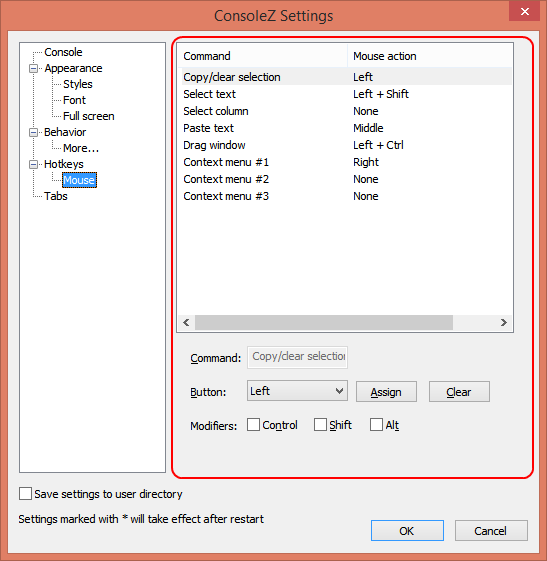
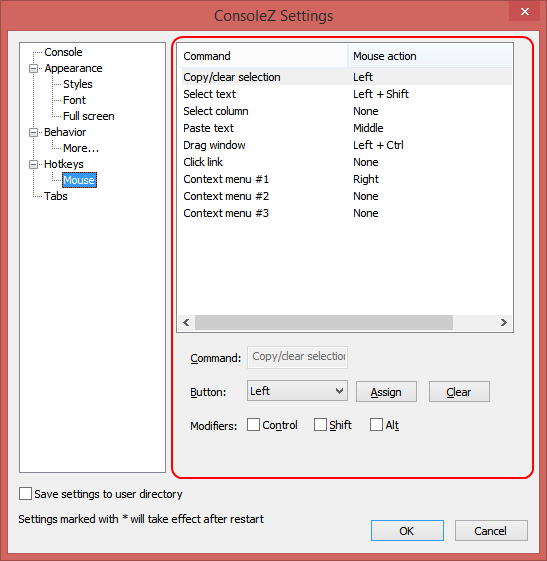
#123 Add "Click link" mouse command

diff --git a/ConsoleHook/ConsoleHandler.cpp b/ConsoleHook/ConsoleHandler.cpp
@@ -1133,6 +1133,89 @@ right:
 
 //////////////////////////////////////////////////////////////////////////////
 
+void ConsoleHandler::ClickLink(HANDLE hStdOut)
+{
+	SHORT                        sBufferColumns  = (m_consoleParams->dwBufferColumns > 0) ? static_cast<SHORT>(m_consoleParams->dwBufferColumns) : static_cast<SHORT>(m_consoleParams->dwColumns);
+	SHORT                        sBufferRows     = (m_consoleParams->dwBufferRows    > 0) ? static_cast<SHORT>(m_consoleParams->dwBufferRows)    : static_cast<SHORT>(m_consoleParams->dwRows);
+	COORD                        coordFrom       = {0, 0};
+	COORD                        coordBufferSize = {sBufferColumns, 1};
+	std::unique_ptr<CHAR_INFO[]> pScreenBuffer(new CHAR_INFO[sBufferColumns]);
+
+	std::wstring strLink;
+
+	for (SHORT y = m_multipleInfo->coordCurrent.Y; y >= 0; --y)
+	{
+		SMALL_RECT srBuffer;
+
+		srBuffer.Left   = 0;
+		srBuffer.Top    = y;
+		srBuffer.Right  = (y == m_multipleInfo->coordCurrent.Y)? m_multipleInfo->coordCurrent.X : (sBufferColumns - 1);
+		srBuffer.Bottom = y;
+
+		::ReadConsoleOutput(
+			hStdOut,
+			pScreenBuffer.get(),
+			coordBufferSize,
+			coordFrom,
+			&srBuffer);
+
+		for (SHORT x = srBuffer.Right; x >= srBuffer.Left; --x)
+		{
+			wchar_t c = pScreenBuffer[x - srBuffer.Left].Char.UnicodeChar;
+			for (size_t d = 0; m_multipleInfo->u.select_word.szLeftDelimiters[d]; ++d)
+			{
+				if( c == m_multipleInfo->u.select_word.szLeftDelimiters[d] )
+				{
+					goto right;
+				}
+			}
+			strLink.insert(0, &c, 1);
+		}
+	}
+
+right:
+
+	for (SHORT y = m_multipleInfo->coordCurrent.Y; y < sBufferRows; ++y)
+	{
+		SMALL_RECT srBuffer;
+
+		srBuffer.Left   = (y == m_multipleInfo->coordCurrent.Y)? (m_multipleInfo->coordCurrent.X + 1) : 0;
+		srBuffer.Top    = y;
+		srBuffer.Right  = sBufferColumns - 1;
+		srBuffer.Bottom = y;
+
+		::ReadConsoleOutput(
+			hStdOut,
+			pScreenBuffer.get(),
+			coordBufferSize,
+			coordFrom,
+			&srBuffer);
+
+		for (SHORT x = srBuffer.Left; x <= srBuffer.Right; ++x)
+		{
+			wchar_t c = pScreenBuffer[x - srBuffer.Left].Char.UnicodeChar;
+			for (size_t d = 0; m_multipleInfo->u.select_word.szLeftDelimiters[d]; ++d)
+			{
+				if( c == m_multipleInfo->u.select_word.szLeftDelimiters[d] )
+				{
+					goto link;
+				}
+			}
+			strLink += c;
+		}
+	}
+
+link:
+
+	ShellExecute(NULL, L"open", strLink.c_str(), NULL, NULL, SW_SHOWNORMAL);
+	//MessageBox(NULL, strLink.c_str(), L"link", MB_OK);
+}
+
+//////////////////////////////////////////////////////////////////////////////
+
+
+//////////////////////////////////////////////////////////////////////////////
+
 void ConsoleHandler::SearchText(HANDLE hStdOut)
 {
 	SHORT                        sBufferColumns  = (m_consoleParams->dwBufferColumns > 0) ? static_cast<SHORT>(m_consoleParams->dwBufferColumns) : static_cast<SHORT>(m_consoleParams->dwColumns);
@@ -1578,6 +1661,11 @@ DWORD ConsoleHandler::MonitorThread()
 				else if( m_multipleInfo->fMask & MULTIPLEINFO_SEARCH_TEXT )
 				{
 					SearchText(hStdOut);
+				}
+				// click link
+				if( m_multipleInfo->fMask & MULTIPLEINFO_CLICK_LINK )
+				{
+					ClickLink(hStdOut);
 				}
 
 				::SetEvent(m_multipleInfo.GetRespEvent());

diff --git a/Console/ConsoleHandler.cpp b/Console/ConsoleHandler.cpp
@@ -766,6 +766,29 @@ bool ConsoleHandler::SelectWord(const COORD& coordCurrent, COORD& coordLeft, COO
 
 //////////////////////////////////////////////////////////////////////////////
 
+bool ConsoleHandler::ClickLink(const COORD& coordCurrent) const
+{
+	m_multipleInfo->fMask = MULTIPLEINFO_CLICK_LINK;
+	m_multipleInfo->coordCurrent = coordCurrent;
+
+	CopyPasteSettings& copyPasteSettings = g_settingsHandler->GetBehaviorSettings().copyPasteSettings;
+	wcscpy_s<MAX_WORD_DELIMITERS>(m_multipleInfo->u.select_word.szLeftDelimiters,  copyPasteSettings.strLeftDelimiters.c_str());
+	wcscpy_s<MAX_WORD_DELIMITERS>(m_multipleInfo->u.select_word.szRightDelimiters, copyPasteSettings.strRightDelimiters.c_str());
+
+	if( ::SetEvent(m_multipleInfo.GetReqEvent()) &&
+	    ::WaitForSingleObject(m_multipleInfo.GetRespEvent(), 2000) == WAIT_OBJECT_0 )
+	{
+		return true;
+	}
+
+	return false;
+}
+
+//////////////////////////////////////////////////////////////////////////////
+
+
+//////////////////////////////////////////////////////////////////////////////
+
 bool ConsoleHandler::SearchText(CString& text, bool bNext, const COORD& coordCurrent, COORD& coordLeft, COORD& coordRight) const
 {
 	m_multipleInfo->fMask = MULTIPLEINFO_SEARCH_TEXT;

diff --git a/Console/SettingsHandler.cpp b/Console/SettingsHandler.cpp
@@ -2023,6 +2023,7 @@ MouseSettings::MouseSettings()
 	commands.push_back(std::shared_ptr<CommandData>(new CommandData(cmdColumnSelect, L"select_column", L"Select column")));
 	commands.push_back(std::shared_ptr<CommandData>(new CommandData(cmdPaste,        L"paste",         L"Paste text")));
 	commands.push_back(std::shared_ptr<CommandData>(new CommandData(cmdDrag,         L"drag",          L"Drag window")));
+	commands.push_back(std::shared_ptr<CommandData>(new CommandData(cmdLink,         L"link",          L"Click link")));
 	commands.push_back(std::shared_ptr<CommandData>(new CommandData(cmdMenu1,        L"menu",          L"Context menu #1")));
 	commands.push_back(std::shared_ptr<CommandData>(new CommandData(cmdMenu2,        L"menu2",         L"Context menu #2")));
 	commands.push_back(std::shared_ptr<CommandData>(new CommandData(cmdMenu3,        L"menu3",         L"Context menu #3")));

diff --git a/Console/ConsoleView.cpp b/Console/ConsoleView.cpp
@@ -736,6 +736,16 @@ LRESULT ConsoleView::OnMouseButton(UINT uMsg, WPARAM wParam, LPARAM lParam, BOOL
 			return 0;
 		}
 
+		// click link
+		it = mouseSettings.commands.get<MouseSettings::commandID>().find(MouseSettings::cmdLink);
+		if ((*it)->action == mouseAction)
+		{
+			MutexLock bufferLock(m_consoleHandler.m_bufferMutex);
+			m_consoleHandler.ClickLink(GetConsoleCoord(point));
+
+			return 0;
+		}
+
 		// menu command
 		for(int i = 0; i < 3; ++i)
 		{

diff --git a/ConsoleHook/ConsoleHandler.h b/ConsoleHook/ConsoleHandler.h
@@ -48,6 +48,7 @@ class ConsoleHandler
 		void CopyConsoleTextLine  (HANDLE hStdOut, std::unique_ptr<ClipboardData> clipboardDataPtr[], size_t clipboardDataCount);
 		void CopyConsoleTextColumn(HANDLE hStdOut, std::unique_ptr<ClipboardData> clipboardDataPtr[], size_t clipboardDataCount);
 		void SelectWord           (HANDLE hStdOut);
+		void ClickLink            (HANDLE hStdOut);
 		void SearchText           (HANDLE hStdOut);
 
 	private:

diff --git a/Console/ConsoleHandler.h b/Console/ConsoleHandler.h
@@ -157,6 +157,7 @@ class ConsoleHandler
 		DWORD        GetLastProcessId(void) const;
 		bool         SelectWord(const COORD& coordCurrent, COORD& coordLeft, COORD& coordRight) const;
 		bool         SearchText(CString& text, bool bNext, const COORD& coordCurrent, COORD& coordLeft, COORD& coordRight) const;
+		bool         ClickLink(const COORD& coordCurrent) const;
 
 	private:
 

diff --git a/shared/Structures.h b/shared/Structures.h
@@ -295,6 +295,7 @@ struct NamedPipeMessage
 #define MULTIPLEINFO_PROCESS_LIST      0x00000002
 #define MULTIPLEINFO_SELECT_WORD       0x00000004
 #define MULTIPLEINFO_SEARCH_TEXT       0x00000008
+#define MULTIPLEINFO_CLICK_LINK        0x00000010
 
 #define MAX_WORD_DELIMITERS            64
 #define MAX_SEARCH_TEXT                128

diff --git a/Console/SettingsHandler.h b/Console/SettingsHandler.h
@@ -659,6 +659,7 @@ struct MouseSettings : public SettingsBase
 		cmdMenu2        = 6,
 		cmdMenu3        = 7,
 		cmdColumnSelect = 8,
+		cmdLink         = 9,
 	};
 
 	enum Button

diff --git a/ConsoleHook/stdafx.h b/ConsoleHook/stdafx.h
@@ -20,6 +20,7 @@
 #include <windows.h>
 #include <psapi.h>
 #include <dbghelp.h>
+#include <Shellapi.h>
 
 #include <string>
 using namespace std;
